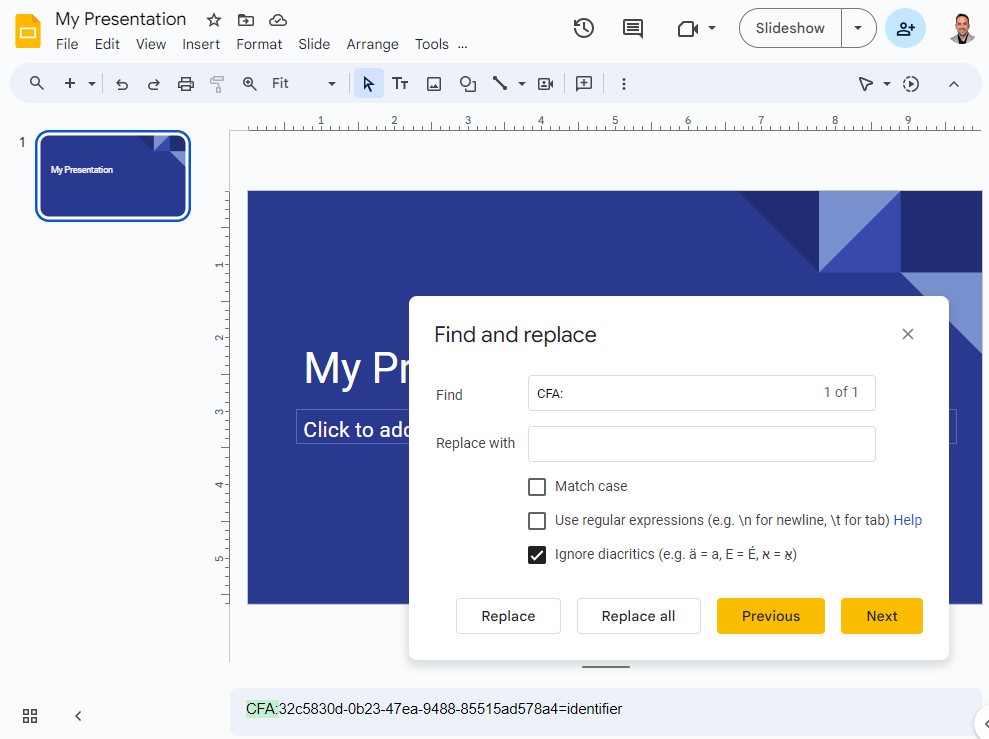
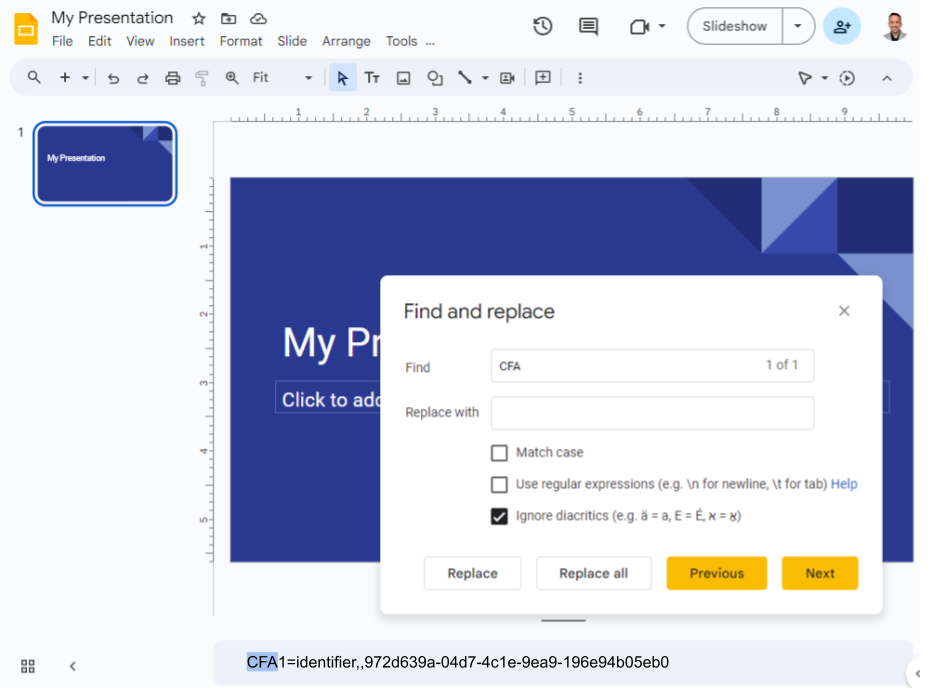
restructure explanation to avoid problems with reserved chars in metadata names

diff --git a/strategies.md b/strategies.md
@@ -43,47 +43,69 @@ A file may bind more than one infix in its name: `tangled-bumpers--1--3.jpg` is 
 Normally, infix CFAs are *common*. They can be extended somewhat with [clarifiers](clarifying.md).
 
 ## Metadata
-Many popular file formats support arbitrary metadata. HTML allows &lt;meta&gt; tags; markdown has [YAML frontmatter](https://docs.github.com/en/contributing/writing-for-github-docs/using-yaml-frontmatter); PDFs and most Adobe file formats support [XMP metadata](https://en.wikipedia.org/wiki/Extensible_Metadata_Platform); Microsoft Office formats support keyword tagging. Such files can bind CFAs internally, by declaring one or more special <var>name</var>, <var>value</var> metadata pairs in a form that we could describe with the symbolic notation `cfaid=explanation`. (The `cfaid` and `explanation` tokens in this notation are placeholders. The equals sign is not actually used in the syntax; it represents whatever mapping mechanism the metadata format uses to associate a name with a value.)
+Many popular file formats support arbitrary metadata. HTML allows &lt;meta&gt; tags; markdown has [YAML frontmatter](https://docs.github.com/en/contributing/writing-for-github-docs/using-yaml-frontmatter); PDFs and most Adobe file formats support [XMP metadata](https://en.wikipedia.org/wiki/Extensible_Metadata_Platform); Microsoft Office formats support keyword tagging. Such files can bind CFAs internally, by declaring one or more special <var>name</var>, <var>value</var> metadata pairs in a form that we could describe with the symbolic notation `CFAn=explanation`.
+
+>Note: In this notation `CFAn` is a placeholder for a string where `n` is any convenient sequence of one or more digits that's unique in a given file, and `explanation` is a placeholder for some special descriptive syntax. The equals sign represents whatever mapping mechanism the metadata format uses to associate a name with a value. For metadata schemes that require a URL to define the CFA namespace, the URL to use is: https://purl.archive.org/purl/cfa.
 
 Using metadata to bind CFAs is more expressive but also more complex than external strategies.
 
-Each CFA metadata pair conveys the idea, "This file binds a CFA identified by `cfaid`, and its type and meaning are `explanation`." Files that have CFA metadata sharing the same identifier in the `cfaid` portion bind the same CFA and are thus part of the same set. The `cfaid` part of a CFA metadata pair always starts with the namespace, `CFA:` and is followed by an arbitrary identifier. The type of identifier influences the semantics of the CFA &mdash; for example, enabling an owner to prove control cryptographically. For more information about the two metadata components, see [Identifying CFAs](identifying.md) and [Explaining CFAs](explaining.md).
+Each CFA metadata pair conveys the idea, "This file binds a CFA with internal index `n`, and its type, meaning, and formal external identifier can be found in `explanation`." Files that have CFA metadata sharing the same identifier in the `explanation` (regardless of whether they index it with the same internal number `n`) bind the same CFA and are thus part of the same set. For more information, see [Explaining CFAs](explaining.md).
 
-Importantly, files bound to a CFA via metadata can be part of the same set *whether or not they are in the same container, and whether or not they are owned or controlled by the same party*. This can solve certain centralization problems. 
+Importantly, files bound to a CFA via metadata can be part of the same set *whether or not they are in the same container, and whether or not they are owned or controlled by the same party*. This can solve certain centralization problems.
 
-Suppose that Alice, a composer of classical music, wants to mark all her compositions as belonging to the overall corpus of compositions that she creates during her career. Alice can embed metadata in each new digital file that she authors, marking it internally as part of a CFA identified by the UUID `0bbfac55-81c9-48ab-8934-9a46c64c0703`. That UUID then binds all her creative output together, even if it's built with a variety of tools, for many clients, across decades, and stored in a hodge-podge of storage containers.
+### Simple co
 
-Building on this example, suppose that Alice writes a piece of music for the violin. Later, she arranges a derivative version for the clarinet. Since these two pieces of music are part of her overall corpus, they should bind the CFA mentioned previously. In addition, these two pieces of music have a more specific relation to one another. The clarinet version is co &mdash; dependent upon the original violin composition &mdash; which is pre. In such a case, and assuming the composer chooses arbitrary identifier `68d15148-a0bd-4716-9618-061a17389689` for the CFA describing the pair, she might embed metadata in her pre violin composition that says:
+Suppose that Alice, a composer of classical music, wants to mark all her compositions as belonging to the overall corpus of compositions that she creates during her career. Alice can embed metadata in each new digital file that she authors, marking it internally as part of a CFA identified by the UUID for her corpus:
 
-    CFA:68d15148-a0bd-4716-9618-061a17389689=identifier
+    CFA1=relation,,0bbfac55-81c9-48ab-8934-9a46c64c0703
+    
+That UUID, `0bb...`, will bind all her creative output together, even if it's built with a variety of tools, for many clients, across decades, and stored in a hodge-podge of storage containers. 
 
-This says that the UUID on the left is the identifier for the CFA *and* for her pre violin file, which have a 1-to-1 relationship. She would then embed metadata in her co clarinet arrangement that says:
+### Pre and co
 
-    CFA:68d15148-a0bd-4716-9618-061a17389689=relation 
+Building on this example, suppose that Alice writes a piece of music for the violin. Later, she arranges a derivative version for the clarinet. Since these two pieces of music are part of her overall corpus, they have a cross-file association to her corpus and should bind the CFA shown above. In addition, these two pieces of music have a more specific relation to one another. The clarinet version is co &mdash; dependent upon the original violin composition &mdash; which is pre. In such a case, and assuming the composer chooses arbitrary identifier `68d15148-a0bd-4716-9618-061a17389689` for the CFA between this pair of files, she might embed more metadata in her pre violin composition that says:
 
-This says that the UUID on the left is the identifier for a CFA to which the clarinet file is related, directionally, as a co file.
+    CFA2=identifier,,68d15148-a0bd-4716-9618-061a17389689
+
+This says her violin file binds another CFA (apparently, the 2nd one for the file) identified by the UUID at the end of the expression. The nature of the relationship between the violin file and the CFA is "identifier" &mdash; meaning that the set as a whole is *identified with* its one and only pre file. In other words, the violin file serves as a nucleus for a larger set directed at the violin file. She could then embed metadata in her co clarinet arrangement that says:
+
+    CFA7=relation,1d,68d15148-a0bd-4716-9618-061a17389689 
+
+This says that her clarinet file binds a CFA (apprently, the 7th one for the file) identified by the UUID at the end of the expression. The nature of the relationship between the clarinet file and the CFA is "relation" &mdash; meaning that the clarinet just relates as a co file. Since the CFA in both of these metadata pairs is the same, the binding is to the same set. The clarinet co file is thus directed to the violin pre file. The `1d` token is an optional [clarifier](clarifying.md) that says the co derives from pre, and that there is only 1 pre file in the CFA.
 
 ![directed metadata CFA](assets/directed-metadata-cfa.png)
 
-Now suppose that Alice writes a symphony that has 4 movements. Each movement is a separate digital file emitted by her composition software. She wants them to be associated with the arbitrary identifier `972d639a-04d7-4c1e-9ea9-196e94b05eb0` to bind her symphony together, so she embeds metadata in each movement's digital file. The metadata says:
+### Multipart pre
 
-    CFA:972d639a-04d7-4c1e-9ea9-196e94b05eb0=isPartOf
+Now suppose that Alice writes a symphony that has 4 movements, and each movement is a separate digital file emitted by her composition software. Since each file is part of her corpus, each should bind our first CFA. It should also binds a CFA for her symphony as a multi-file work. She picks a new arbitrary identifier `972d639a-04d7-4c1e-9ea9-196e94b05eb0` for that CFA, and embeds more metadata in each movement's digital file:
 
-The metadata in this situation also expresses a directional CFA, but all the files we've talked about so far are pre. However, the possibility of co is still useful. If three recordings of this symphony are performed, the composer can mark the recordings as co, dependent on the multi-part pre: 
+    CFA2=isPartOf,4x,972d639a-04d7-4c1e-9ea9-196e94b05eb0
+
+This binds the file for each movement to a directional CFA, where the nature of the relationship between the file and the CFA is "isPartOf". In other words, each movement is part of an aggregate pre. We know it is not co, because the nature was not declared to be "relation". We also know that there are 4 parts, due to the `4x` [clarifier](clarifying.md).
+
+### Multipart pre with co
+
+The possibility of co is still useful with this symphony CFA. If three recordings of this symphony are performed, the composer can mark each recordings as co, dependent on the multi-part pre: 
 
 ![multi-part pre metadata CFA](assets/multi-pre-metadata-cfa.png)
 
-For metadata schemes that require a URL to define the CFA namespace, the URL to use is: https://purl.archive.org/purl/cfa.
+This might be done with metadata like this:
+
+    CFA1=relation,4t,972d639a-04d7-4c1e-9ea9-196e94b05eb0
+
+Here, the `4t` clarifier tells us that the 4-part pre has been transformed by the current file, without making any claims about how many other transformations might exist. For more about this advanced notation, see [Clarifying CFAs](clarifying.md).
 
 ## Inline content
 
-The final CFA strategy that we'll cover here is to embed a __CFA statement__ directly into the searchable content of a file. A CFA statement is literal string in `cfaid=explanation` format, and expresses the same information as metadata would. Files that have no native metadata support, like text files or the body of an email, can use this strategy. The requirement that such CFAs be part of searchable content guarantees that a simple scan with features native to the format can find them.
+The final CFA strategy that we'll cover here is to embed a __CFA statement__ directly into the searchable content of a file. A CFA statement is literal string in `CFAn=explanation` format, and expresses the same information as metadata would. Files that have no native metadata support, like text files or the body of an email, can use this strategy. The requirement that such CFAs be part of searchable content guarantees that a simple scan with features native to the format can find them.
 
 For example, if I wanted to bind a Google Slides presentation to a CFA, I could add a CFA statement to the speaker notes on the first slide, and find it again with a simple search:
 
 ![CFA as inline content in Google Slides](assets/slides-inline-content.png)
 
 In some cases, CFA statements might create visual clutter that's undesirable. They could be placed in a document header or footer, and hidden by customizing the text color.
+
+### Inline content in containers
 
 An important use for this strategy is to apply it to a [container](concepts.md#building-blocks) (folder, zip file, email), so that the container itself can bind CFAs and possibly function as a pre file. Since the content of a container is files, adding "inline" content to the container means adding a file to it. By convention, inline CFA content in containers must be in a file named `.cfas`. This file must be plain text and must consist of one or more CFA statements, one per line. Any lines that don't match the CFA statement syntax are treated as comments.
 

diff --git a/identifying.md b/identifying.md
@@ -1,24 +1,51 @@
 # Identifying CFAs
 
+All identifiers for CFAs are interpreted according to the ambient text encoding. They may or may not be case-sensitive, depending on the semantics of their corresponding identifier scheme, as noted below. 
+
 ## Names
 The simplest way to identify a CFA is to give it a human-friendly name. This approach can be used with [metadata](strategies.md#metadata) and [inline content](strategies.md#inline-content). It is required for [sidecars](strategies.md#sidecar), where the identifier for the CFA is simply the name of the [pre](concepts.md#pre-and-co) file, and for [infixes](strategies.md#infix), where the CFA is identified by a 1-to-3-digit number. The virtue of names is that they're easy and intuitive. Their drawback is that their meaning and uniqueness are container-dependent.
+
+If a name contains spaces, begin and end the name component of the [explanation](explaining.md) with double quote characters (`"`, U+0022); these quotes are considered delimiters, not part of the name value itself. Quotes inside a quoted name must be escaped with a backslash. No other escape sequences are supported. Tabs, carriage returns, line feeds, any zero-width or invisible characters are illegal.
+
+Names as CFA identifiers are case-preserving, but not case-sensitive. That is, the name "my corpus" and the name "My Corpus" must be treated as equivalent, for matching purposes, but software must not normalize the case.
 
 ## UUIDs
 UUIDs are another convenient form of identifier for CFAs. They have the advantage of being globally unique, and therefore container-independent. UUID form 4 carries the additional semantic that all UUIDs created by the same hardware will have something in common, which asserts something about common origin for many CFAs.
 
+Per [RFC 4122](https://www.rfc-editor.org/rfc/rfc4122), UUIDs MUST be compared in a case-insensitive way. They should also be compared without regard to whether they are written with enclosing braces or with internal hyphens. However, as CFA identifiers, it is important to distinguish UUIDs from arbitrary string names. Therefore, in CFA metadata explanations, UUIDs MUST be written with hyphens; they SHOULD be written in lower-case form without enclosing braces. Any CFA implementation that detects a UUID MUST compare it to other UUID values per RFC 4122 rules.
+
 ## URLs
-URLs are another possible identifier type. These have the advantage that the CFA can be described at the URL in question. For example, the musician who wants to unify all works in their career corpus, and who uses the URL `https://mymusicalcareer.com/corpus` as the identifier for this CFA, can publish a catalog or similar information about the corpus at that URL. However, URLs are notoriously unstable; using a PURL may be advisable.
+URLs are another possible identifier type. These have the advantage that the CFA can be described at the URL in question. For example, the musician who wants to unify all works in their career corpus, and who uses the URL `https://mymusicalcareer.com/corpus` as the identifier for this CFA, can publish a catalog or similar information about the corpus at that URL. However, URLs are notoriously unstable; using a [PURL](https://purl.archive.org/) may be advisable.
+
+Some systems that process URLs may be insensitive to case differences in parts of some URLs, but as CFA identifiers, URLs must be treated as case-sensitive.
 
 ## DIDs
 A [decentralized identifier (DID)](https://www.w3.org/TR/did-core/) adds the notion of cryptographically provable control to the CFA. With such identifiers, the owner of the identifier can prove they control the identifier, and by implication, the CFA. The composer who identifies her corpus with a CFA identified by a DID can thus set herself up as the indisputable authority on the question of whether any particular file deserves to be part of the CFA, *in her opinion as the CFA owner*. This does not mean the file's authorship can be proved &mdash; the CFA owner might have stolen it &mdash; but the identity of the CFA's controller becomes verifiable. Further, it becomes possible to carry out a secure communication with the author using a communications technique like [DIDComm](https://identity.foundation/didcomm-messaging/spec/) or the [Trust Spanning Protocol](https://trustoverip.github.io/tswg-tsp-specification/).
 
+Although the [DID spec](https://www.w3.org/TR/did-core/#method-syntax) allows DID methods to define their own case-sensitivity rules, CFA implementations MAY assume that all DIDs are case-sensitive.
+
 ## AIDs
-An [autonomic identifier (AID)](https://trustoverip.github.io/tswg-keri-specification/#autonomic-identifier-aid) is a form of decentralized identifier that further enhances security and decentralization. Most DID methods depend on the availability of a blockchain for resolution, and do not guard against the possibility that someone other than the creator of the DID registered it. In contrast, AIDs are self-certifying &mdash; meaning they guarantee a perfect chain of custody from inception &mdash; blockchain-independent &mdash; allowing their use with any or no blockchain at all &mdash; and use a sophisticated key pre-rotation technique to maximize key hygeine and provide post-quantum safety.
+An [autonomic identifier (AID)](https://trustoverip.github.io/tswg-keri-specification/#autonomic-identifier-aid) is a form of decentralized identifier that further enhances security and decentralization. Most DID methods depend on the availability of a blockchain for resolution, and do not guard against the possibility that someone other than the creator of the DID registered it. In contrast, AIDs are self-certifying &mdash; meaning they guarantee a perfect chain of custody from inception; blockchain-independent &mdash; allowing their use with any or no blockchain at all; and use a sophisticated key pre-rotation technique to maximize key hygeine and provide post-quantum safety.
+
+AID values are case-sensitive.
 
 ## SAIDs
-A [self-addressing identifier (SAID)](https://www.youtube.com/watch?v=n7tBOPHdtdw) goes one step further still, by binding an identifier to the content of the file itself. This makes the combination of identifier and content tamper-evident, because cannot be changed without also changing the identifier. A SAID thus constitutes a proof of existence for its content, and a digital signature can assert authorship over that content.
+A [self-addressing identifier (SAID)](https://www.youtube.com/watch?v=n7tBOPHdtdw) binds an identifier to the content of the file itself. This makes the combination of identifier and content tamper-evident, because cannot be changed without also changing the identifier. A SAID thus constitutes a proof of existence for its content, and a digital signature can assert authorship over that content.
 
-SAIDs are normally calculated by inserting a placeholder in a file, calculating a hash, and then replacing the placeholder with the SAID. This works well when file content is oriented toward serialized data structures (e.g., JSON, CBOR, MsgPack). However, it is not possible with many common file types that compress and encrypt, such as .docx, .pdf, and .zip. [Externalized SAIDs](https://dhh1128.github.io/papers/bes.pdf) address this challenge.
+SAIDs are normally calculated by inserting a placeholder in a file, calculating a hash, and then replacing the placeholder with the SAID. This works well when file content is oriented toward serialized data structures (e.g., JSON, CBOR, MsgPack). However, it is not possible with many common file types that compress and encrypt, such as .docx, .pdf, and .zip. [Externalized SAIDs](https://dhh1128.github.io/papers/bes.pdf) address this challenge. An externalized SAID requires an internal declaration of a SAID regex, with the SAID value itself appearing in the filename. It is thus has both internal and external characteristics. For example, suppose that the XMP metadata of a PDF contained this metadata pair:
+
+    CFA1=identifier,1v1,".*-{SAID}\.pdf"
+
+This would mean, "This file binds a SAID as its one and only pre file, and it is accompanied by a co file that verifies it (e.g., a digital signature). The SAID that identifies the CFA is the last token in the filename."
+
+The quoted XSAID expression uses python raw string (`r"..."`) syntax, and it must match the entire filename. However, the literal character sequence `{SAID}` is matched to a valid SAID sequence instead of being interpreted by regex rules.
+
+SAIDs are case-sensitive.
+
+## Namespaced SAIDs
+An AID (or a DID) can be combined with a SAID to get the benefits of both: cryptographic control plus tamper-evident content addressing. Whoever controls the AID or DID is the controller of the namespace, and the SAID references content under their control. In such cases, the identexpr component of the explanation begins with a cryptographic identifier that constitutes the namespace, and is followed by a dot, then a SAID or externalized SAID. For example:
+
+    CFA1=identifier,1v1,EcGraT4XWiPBnyV7IcSklDxXOF-xfoyOz0WURwoHW14y.".*-{SAID}\.pdf"
 
 ## Other identifier types
-The foregoing list is not exhaustive. It is entirely possible to use other well-known identifier types as well: DOI numbers, LEIs, ISBNs, Bitcoin addresses, etc.
+The foregoing list is not exhaustive. It is entirely possible to use other well-known identifier types as well: DOI numbers, LEIs, ISBNs, Bitcoin addresses, etc. The common constraint is that these identifier types 

diff --git a/explaining.md b/explaining.md
@@ -1,12 +1,14 @@
 # Explaining CFAs
 In [metadata](strategies.md#metadata) and [inline content](strategies.md#inline-content) strategies, CFAs can carry rich descriptions that explain how files relate to one another, how many files of which kinds are in pre and co sets, and so forth.
 
-A __CFA explanation__ is a comma-separated string with no extra spaces, consisting of 1 or 2 tokens:
+A __CFA explanation__ is a comma-separated string with no extra spaces, consisting of 3 tokens:
 
-    nature[,clarifier]
+    nature,[clarifier],identexpr
+
+This string is terminated by whitespace, unless <var>identexpr</var> contains a quoted expression (in which case, it is terminated by the close quote).
 
 ## nature
-A __nature__ characterizes the relationship between the bound file and the CFA, from the perspective of the bound file. 3 values are possible. They come from the [Dublin Core metadata standard](https://www.dublincore.org/specifications/dublin-core/dcmi-terms/):
+A __nature__ characterizes the relationship between the bound file and the CFA, from the perspective of the bound file. 3 case-sensitive string values are possible. They come from the [Dublin Core metadata standard](https://www.dublincore.org/specifications/dublin-core/dcmi-terms/):
 
 nature | meaning
 --- | ---
@@ -15,4 +17,7 @@ nature | meaning
 `isPartOf` | This file is part of a multi-file pre, and the set as a whole is identified by the CFA. This matches the semantics of [`isPartOf`](http://purl.org/dc/terms/isPartOf) in Dublin Core.
 
 ## clarifier
-Clarifiers are explained [here](clarifying.md).
+Clarifiers are explained [here](clarifying.md). Clarifiers can be omitted, causing the first and the third commas in an explanation to appear with no intervening content.
+
+## identexpr
+The <var>identexpr</var> component of an explanation tells how this cross-file association can be distinguished from others. Normally, this is done by providing a literal identifier &mdash;a name, a UUID, a DID, a SAID, etc. In the the case of externalized SAIDs, the expression is more complex. See [Identifying a CFA](identifying.md).

diff --git a/clarifying.md b/clarifying.md
@@ -13,10 +13,10 @@ The following dependency predicate symbols are defined:
 
 symbol | meaning | sample use cases
 --- | ---| ---
-a | co files are <u>a</u>ternative views or versions of one another | X-rays of the same broken bone produce a lateral and a top view (co files).
+a | co files are <u>a</u>lternative views or versions of one another | X-rays of the same broken bone produce a lateral and a top view (co files).
 c | pre <u>c</u>ited by co | An academic paper (pre) and a subsequent paper that quotes from it (co). An affidavit (pre) and a legal filing that references it (co).
 d | pre used to <u>d</u>erive co | A violin concerto (pre) that spawns an arrangement for clarinet (co). A novel (pre) and its audiobook version (co). A repo of source code (pre) and its forks (co).
-f | pre <<u>f</u>ollowed by (answered by, replied to by) co | A tweet (pre) and a reply (co). A critique (pre) and a rebuttal (co). An email (pre) and a response (co).
+f | pre <u>f</u>ollowed by (answered by, replied to by) co | A tweet (pre) and a reply (co). A critique (pre) and a rebuttal (co). An email (pre) and a response (co).
 r | co <u>r</u>eviews pre                               | A financial statement (pre) and an auditor's report (co). An album (pre) and a review by a music critic (co).
 s | co <u>s</u>upersedes pre                            | Version 1 of a formal standard (pre) and version 2 (co).
 t | co <u>t</u>ransforms pre (typically in a lossy way) | A news article (pre) and translations (co). A vector graphic (pre) and a bitmap graphic (co). An audio stream (pre) and a transcription (co). A FLAC audio recording (pre) and its .mp3 compression (co). In general, transformations that are not lossy (e.g., a file in zipped and unzipped form, the same text encoded in UTF-16 and UTF-8) do not have an obvious pre-to-co directionality and are thus thought of as multi-pre (not needing clarification).
